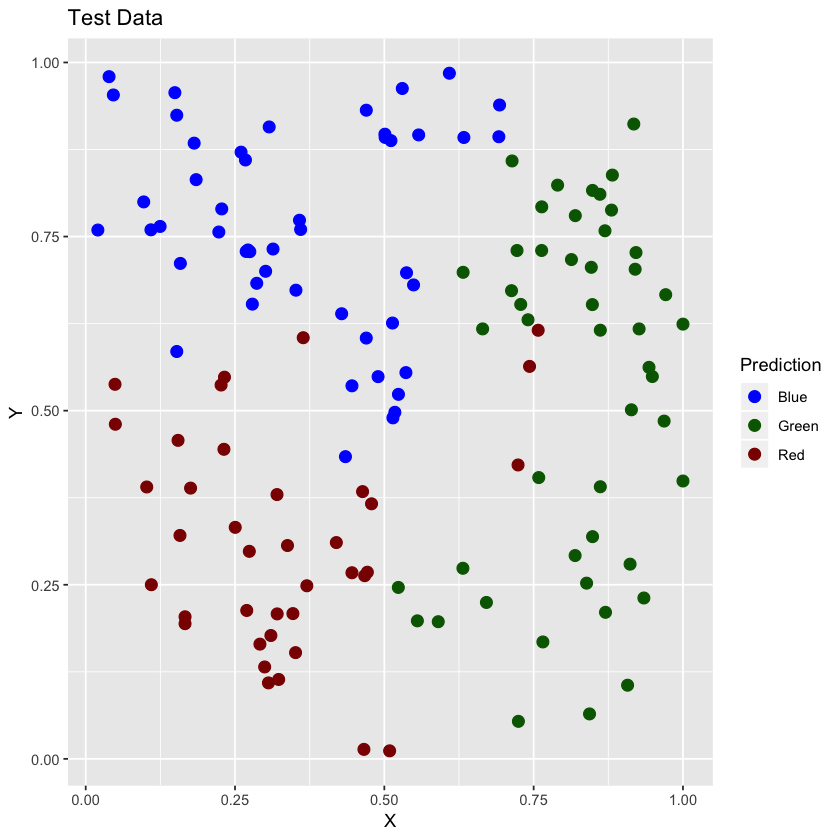
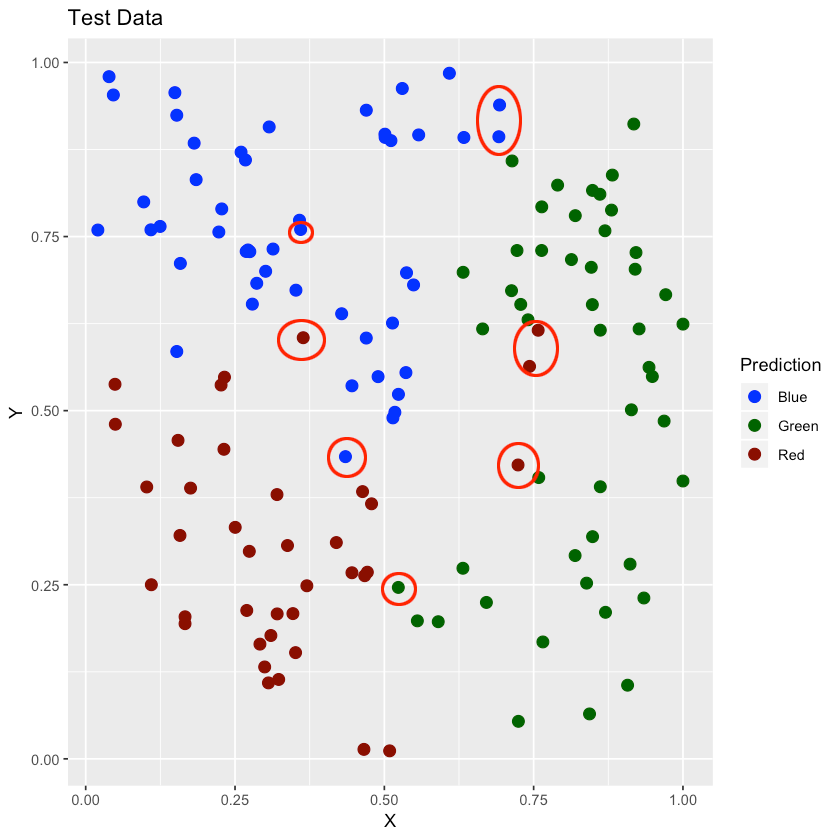
.

diff --git a/index.md b/index.md
@@ -272,6 +272,8 @@ ggplot() +
 
 <img src="images/6.png" width="420" heigth="420"  />
 
+As seen in the plot above it seems even though our algorithm correctly classified most of the data points, it failed with some of them (marked in red).
+
 <b>4.2.1 Decision Limits</b>
 
 Finally, we can visualize our "decision limits" over our original Test Dataset. This provides a good visual approximation as how well our model is classifying our data and which are the limits of it's classification space.
@@ -296,6 +298,8 @@ ggplot() +
 ```
 
 <img src="images/7.png" width="420" heigth="420" />
+
+As seen above, the colored region represent which areas our algorithm would define as being a "colored data point". It's visible why it failed to correctly clasify some of them.
 
 
 ## 5. Final Thoughts
